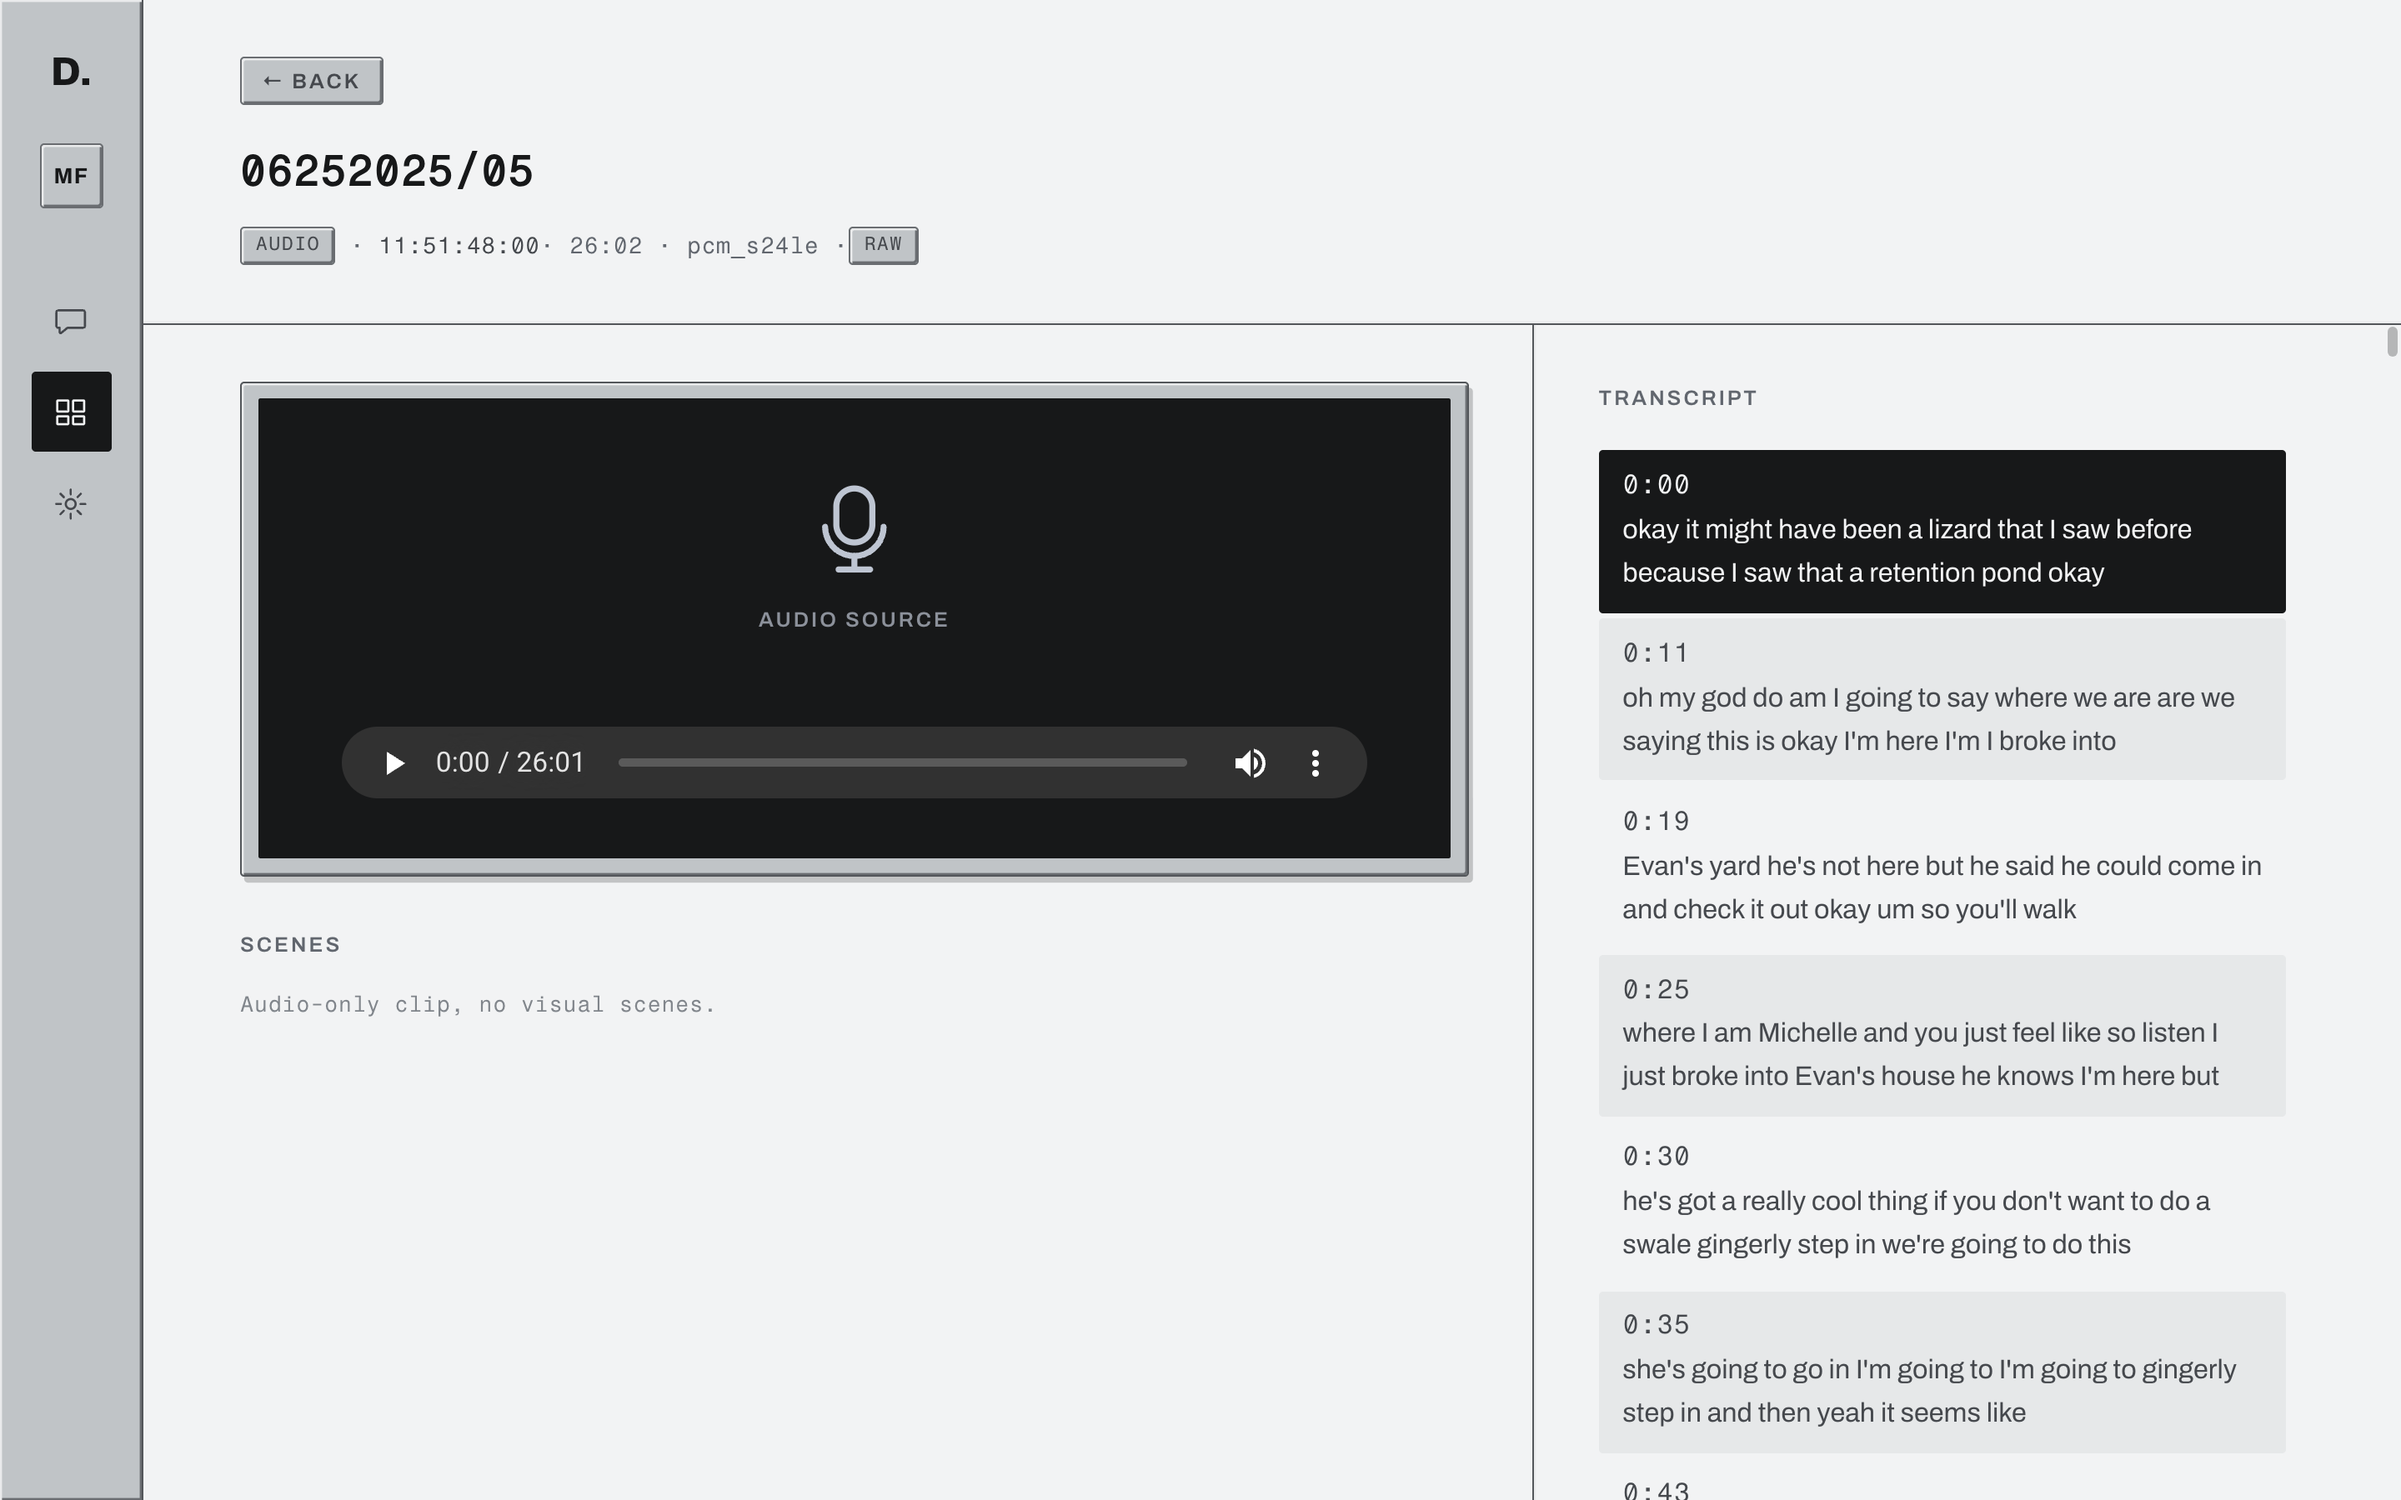
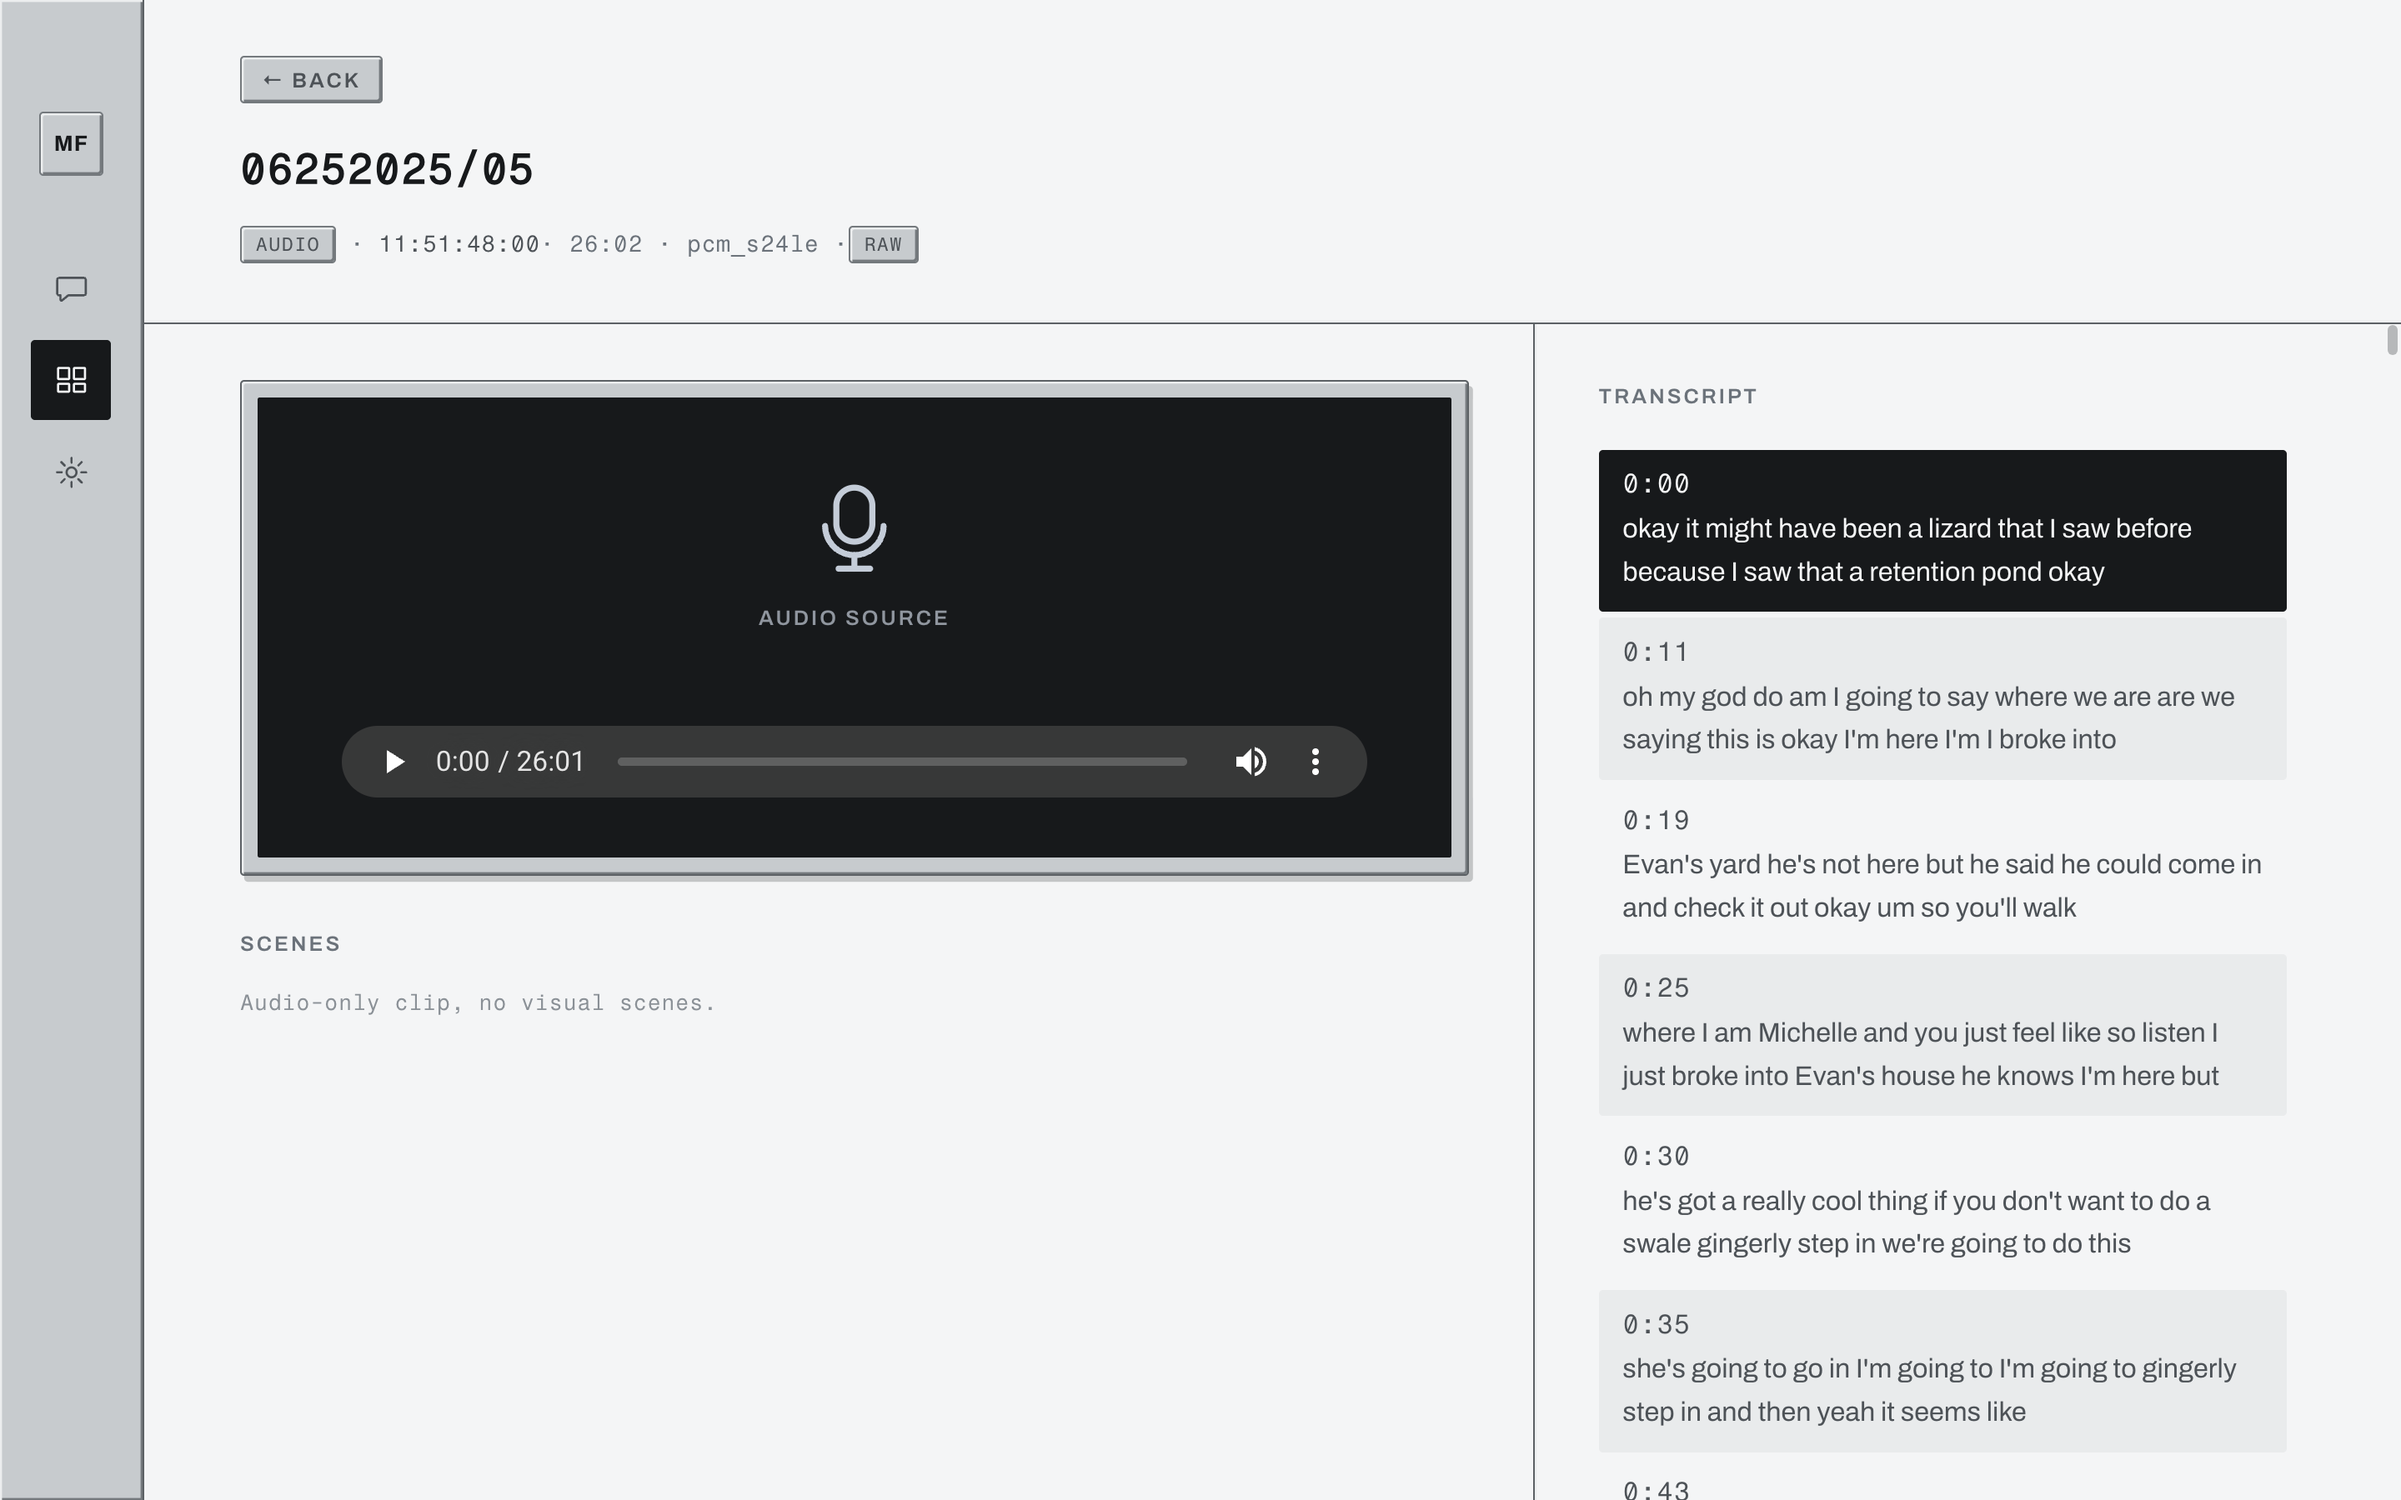
Dailies: traffic-light fix screenshots, download points at v0.2.3

diff --git a/dailies/index.html b/dailies/index.html
@@ -239,7 +239,7 @@ footer .win-body p { max-width: none; }
         <p class="lede">Dailies transcribes and indexes your Avid media on your own Mac, in place. Ask in plain language, get the exact moment with its source timecode, and send markers or an EDL back to Media Composer.</p>
       </div>
       <div class="hero-cta">
-        <a class="marker" id="dl-top" href="https://github.com/ovsh/dailies/releases/download/v0.2.2/Dailies-0.2.2-arm64.dmg">Download for Mac</a>
+        <a class="marker" id="dl-top" href="https://github.com/ovsh/dailies/releases/download/v0.2.3/Dailies-0.2.3-arm64.dmg">Download for Mac</a>
         <span class="cta-note">Free. Apple Silicon, macOS 14+. Notarized DMG.</span>
         <a href="https://github.com/ovsh/dailies">Source on GitHub</a>
       </div>
@@ -364,7 +364,7 @@ footer .win-body p { max-width: none; }
     <span class="win-close" aria-hidden="true"></span>
     <span class="win-title">Download</span>
     <span class="win-stripes" aria-hidden="true"></span>
-    <span class="win-meta">v0.2.2</span>
+    <span class="win-meta">v0.2.3</span>
   </div>
   <div class="win-body">
     <div class="dl-grid">
@@ -378,8 +378,8 @@ footer .win-body p { max-width: none; }
         </ul>
       </div>
       <div class="hero-cta">
-        <a class="marker" id="dl-bottom" href="https://github.com/ovsh/dailies/releases/download/v0.2.2/Dailies-0.2.2-arm64.dmg">Download for Mac</a>
-        <span class="cta-note">Free. v0.2.2, notarized DMG.</span>
+        <a class="marker" id="dl-bottom" href="https://github.com/ovsh/dailies/releases/download/v0.2.3/Dailies-0.2.3-arm64.dmg">Download for Mac</a>
+        <span class="cta-note">Free. v0.2.3, notarized DMG.</span>
       </div>
     </div>
   </div>
